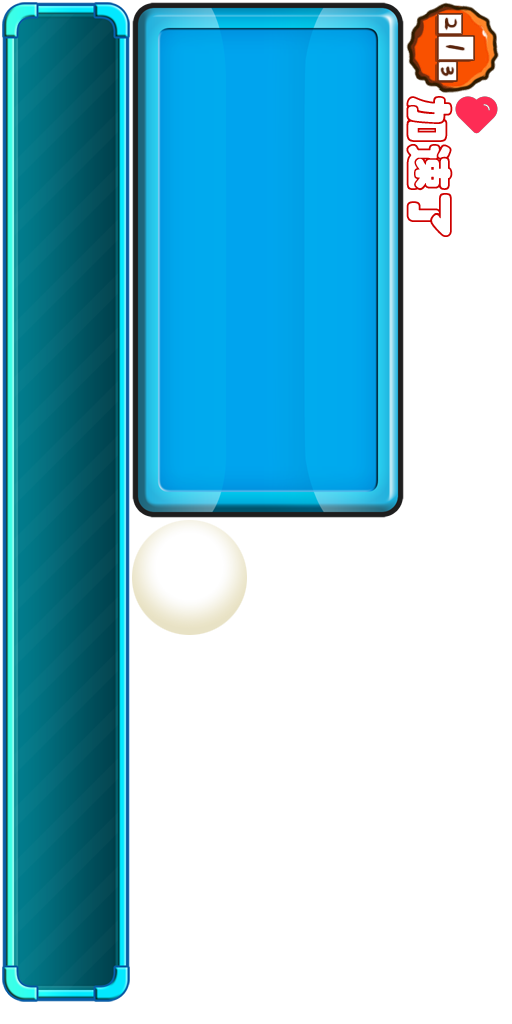
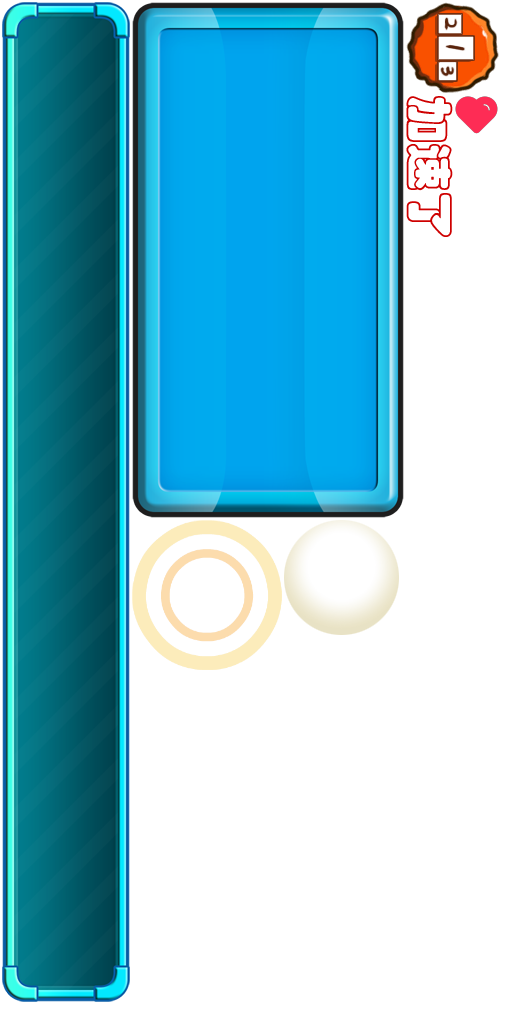
完善首页背景；增加首页动画

Changed region(s): [[0.25, 0.5, 0.7812, 0.6562], [0.7188, 0.5, 0.75, 0.5312]]

diff --git a/assets/Script/Index.js b/assets/Script/Index.js
@@ -13,10 +13,26 @@ cc.Class({
 
     onLoad() {
         this.initUserInfoButton();
-        this.startbtn.active = false
-        this.wxSubContextView.active = false
-        var onePage = cc.instantiate(this.onePagePrefab);
-        onePage.getComponent("OnePage").rendering(0);
+        this.startbtn.active = false;
+        this.wxSubContextView.active = false;
+
+
+        this.AnimationON();
+    },
+
+    //播放动画
+    AnimationON() {
+        var ring = cc.find('Canvas/BaseView/showrankbtn/Ring');
+        console.log(ring);
+        var duration = 4;
+        ring.runAction(cc.repeatForever(cc.sequence(
+            cc.scaleTo(duration / 2, 3, 3),
+            cc.scaleTo(duration / 2, 1, 1),
+        )));
+        ring.runAction(cc.repeatForever(cc.sequence(
+            cc.fadeIn(duration / 2),
+            cc.fadeOut(duration / 2),
+        )));
     },
 
     startGame() {
